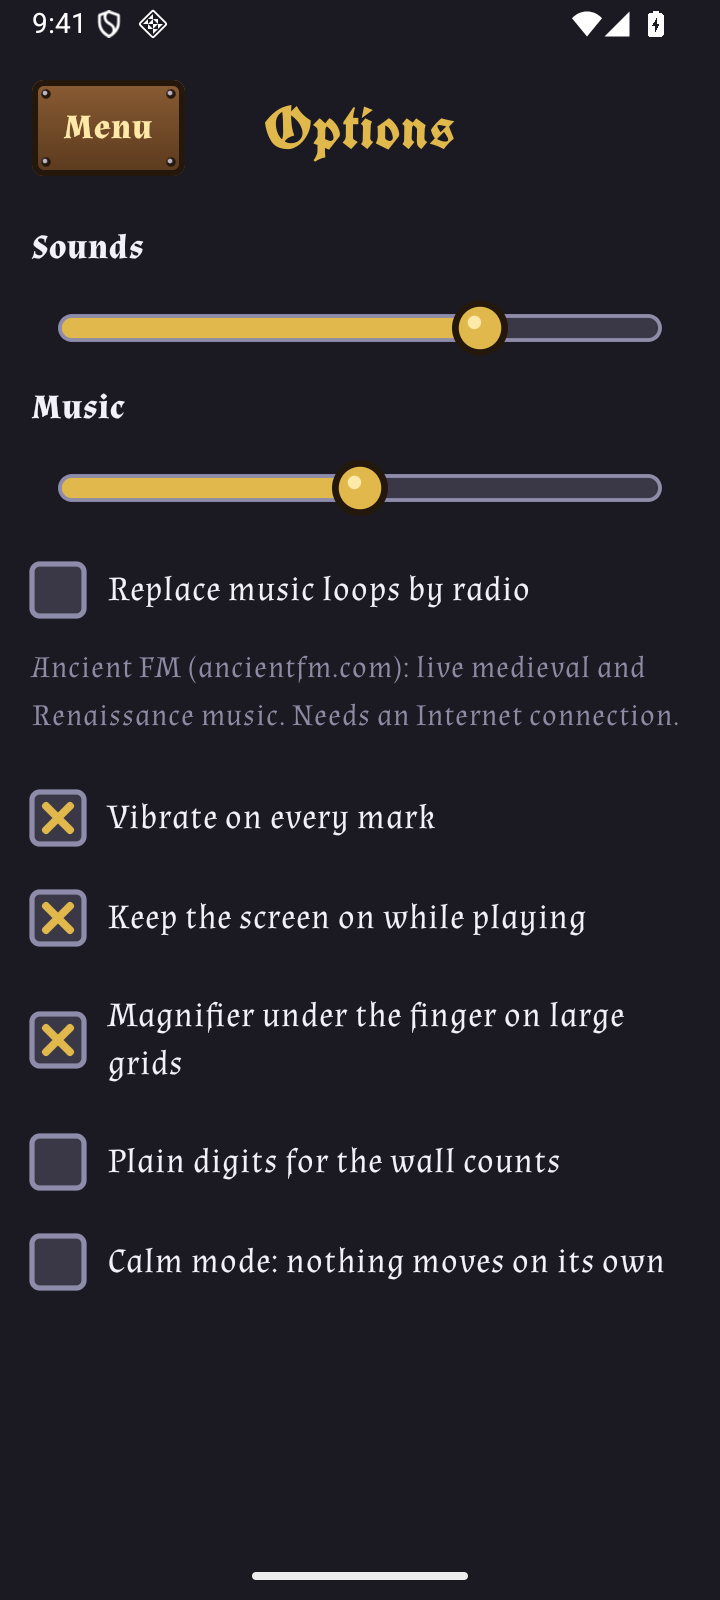
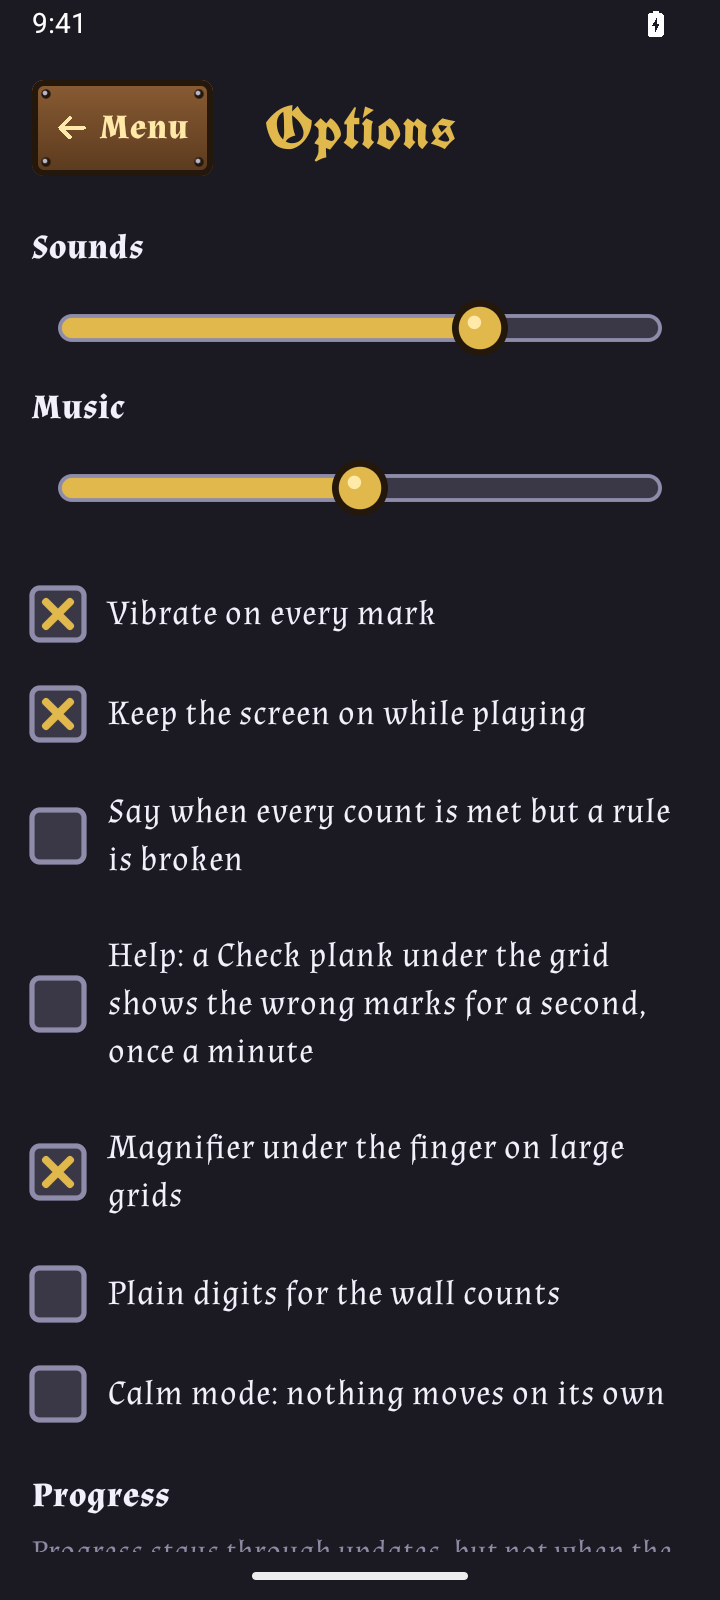
Version 0.6.3: no more radio, no Internet permission
- The option replacing the music loops with the Ancient FM stream is gone:
  the station is free of charge and of adverts, but it is not free software
  or free content.
- The app no longer asks for the Internet permission; the bundled loops are
  the only music.
- Options screenshot retaken.

diff --git a/app/src/main/kotlin/app/oubliettes/Audio.kt b/app/src/main/kotlin/app/oubliettes/Audio.kt
@@ -10,21 +10,18 @@ import android.media.AudioTrack
 import android.media.MediaCodec
 import android.media.MediaExtractor
 import android.media.MediaFormat
-import android.media.MediaPlayer
 import android.media.SoundPool
 import android.os.Handler
 import android.os.Looper
 import androidx.compose.runtime.getValue
 import androidx.compose.runtime.mutableFloatStateOf
-import androidx.compose.runtime.mutableStateOf
 import androidx.compose.runtime.setValue
 import java.util.concurrent.ConcurrentHashMap
 import kotlin.concurrent.thread
 import kotlin.math.roundToInt
 
-private const val RADIO_URL = "https://mediaserv73.live-streams.nl:18058/stream" // Ancient FM, ancientfm.com
 
-private enum class Source { NONE, MENU, LOOP, RADIO }
+private enum class Source { NONE, MENU, LOOP }
 
 /** A decoded sound: [size] bytes of 16-bit samples. */
 private class Pcm(val bytes: ByteArray, val size: Int, val rate: Int, val channels: Int)
@@ -127,16 +124,13 @@ private class Loop(context: Context, resource: Int, attributes: AudioAttributes,
 }
 
 /**
- * Sound effects plus background music: the bundled loops (a calmer one for the menus), or the Ancient FM stream when asked.
+ * Sound effects plus background music: the bundled loops (a calmer one for the menus).
  * The music holds the audio focus while it plays. It stays silent when another app is already
  * playing, stops when another app takes the focus, and comes back when the focus does.
  */
 class Audio(private val context: Context, private val prefs: SharedPreferences) {
     var soundVolume by mutableFloatStateOf(prefs.getFloat("soundVolume", 0.7f))
     var musicVolume by mutableFloatStateOf(prefs.getFloat("musicVolume", 0.5f))
-    var radio by mutableStateOf(prefs.getBoolean("radio", false))
-    var radioFailed by mutableStateOf(false)
-        private set
 
     private val attributes = AudioAttributes.Builder()
         .setUsage(AudioAttributes.USAGE_GAME)
@@ -146,7 +140,6 @@ class Audio(private val context: Context, private val prefs: SharedPreferences) 
     val click = pool.load(context, R.raw.sfx_click, 1)
     private val victory = pool.load(context, R.raw.sfx_victory, 1)
 
-    private var player: MediaPlayer? = null // the radio
     private var loop: Loop? = null // a bundled loop
     private val decoded = ConcurrentHashMap<Int, Pcm>()
     private var source = Source.NONE
@@ -194,17 +187,14 @@ class Audio(private val context: Context, private val prefs: SharedPreferences) 
     }
 
     /** Persists the settings and applies them to the music. Call after changing any of them. */
-    fun save(retryRadio: Boolean = false) {
-        prefs.edit().putFloat("soundVolume", soundVolume).putFloat("musicVolume", musicVolume)
-            .putBoolean("radio", radio).apply()
-        if (retryRadio) radioFailed = false
+    fun save() {
+        prefs.edit().putFloat("soundVolume", soundVolume).putFloat("musicVolume", musicVolume).apply()
         sync()
     }
 
     /** Music only plays while the app is on screen. */
     fun setForeground(value: Boolean) {
         foreground = value
-        if (value) radioFailed = false // the network may be back
         sync()
     }
 
@@ -217,7 +207,6 @@ class Audio(private val context: Context, private val prefs: SharedPreferences) 
     fun release() {
         handler.removeCallbacksAndMessages(null)
         manager.abandonAudioFocusRequest(focusRequest)
-        player?.release()
         loop?.stop()
         pool.release()
     }
@@ -234,42 +223,19 @@ class Audio(private val context: Context, private val prefs: SharedPreferences) 
         }
         val want = when {
             !wanted || !focused || paused -> Source.NONE
-            radio && !radioFailed -> Source.RADIO
             menu -> Source.MENU
             else -> Source.LOOP
         }
         if (want != source) {
-            player?.release()
             loop?.stop()
             source = want
             loop = when (want) {
                 Source.MENU -> Loop(context, R.raw.menu, attributes, decoded)
                 Source.LOOP -> Loop(context, R.raw.music, attributes, decoded)
-                else -> null
-            }
-            player = when (want) {
-                Source.NONE, Source.MENU, Source.LOOP -> null
-                Source.RADIO -> MediaPlayer().apply {
-                    setAudioAttributes(attributes)
-                    setDataSource(RADIO_URL)
-                    var connected = false
-                    setOnPreparedListener { connected = true; it.start() }
-                    // A live stream only ends or errors when the connection is lost: fall back to the loop.
-                    setOnCompletionListener { radioLost() }
-                    setOnErrorListener { _, _, _ -> radioLost(); true }
-                    prepareAsync()
-                    // Offline, the connection attempt can hang for minutes: give up well before that.
-                    handler.postDelayed({ if (player === this && !connected) radioLost() }, 15_000)
-                }
+                Source.NONE -> null
             }
         }
         val v = if (hushed) 0f else musicVolume * musicVolume
-        player?.setVolume(v, v)
         loop?.volume = v
-    }
-
-    private fun radioLost() {
-        radioFailed = true
-        sync()
     }
 }

diff --git a/app/src/main/kotlin/app/oubliettes/MainActivity.kt b/app/src/main/kotlin/app/oubliettes/MainActivity.kt
@@ -996,13 +996,6 @@ private fun Options(prefs: SharedPreferences, audio: Audio, onMenu: () -> Unit) 
             IronSlider("Sounds", audio.soundVolume, { audio.soundVolume = it; audio.save() }, onValueChangeFinished = { audio.play(audio.click) })
             Text("Music", Modifier.clearAndSetSemantics {}, color = Ink, fontWeight = FontWeight.Bold)
             IronSlider("Music", audio.musicVolume, { audio.musicVolume = it; audio.save() })
-            Toggle("Replace music loops by radio", audio.radio) { audio.radio = it; audio.save(retryRadio = true) }
-            Text(
-                "Ancient FM (ancientfm.com): live medieval and Renaissance music. " +
-                    "Needs an Internet connection.",
-                color = Dim, fontSize = 15.sp,
-            )
-            if (audio.radioFailed) Text("Radio unavailable: back to the music loops.", color = Red, fontSize = 15.sp)
             Spacer(Modifier.height(8.dp))
             PrefToggle(prefs, "haptics", "Vibrate on every mark")
             PrefToggle(prefs, "keepScreenOn", "Keep the screen on while playing")

diff --git a/README.md b/README.md
@@ -7,7 +7,7 @@ A logic puzzle game for Android: work out where the dungeon walls are from the c
   <img src="metadata/en-US/images/phoneScreenshots/2-game.png" width="190" alt="An 8×8 grid in progress: walls, dots, monsters, a chest, the wall counts, and the Undo, Redo and Reset planks" />
   <img src="metadata/en-US/images/phoneScreenshots/3-solved.png" width="190" alt="A solved grid, all counts green and underlined, with Play again and Next level" />
   <img src="metadata/en-US/images/phoneScreenshots/4-tutorial.png" width="190" alt="Tutorial step about monsters and dead ends, with two cells left for the player to mark" />
-  <img src="metadata/en-US/images/phoneScreenshots/5-options.png" width="190" alt="Options: sound and music sliders, radio, vibration, screen, magnifier, plain digits and calm mode" />
+  <img src="metadata/en-US/images/phoneScreenshots/5-options.png" width="190" alt="Options: sound and music sliders, vibration, screen, magnifier, plain digits and calm mode" />
   <img src="metadata/en-US/images/phoneScreenshots/6-levels.png" width="190" alt="Campaign: the table of levels, the solved one showing its dungeon, the next one marked as begun" />
 </p>
 
@@ -95,8 +95,7 @@ screens, large fonts), and calm mode stops all motion.
 Options has volume sliders for sound effects and music. The music holds the audio focus while it
 plays: it stays silent when another app is already playing (your own music or a podcast keeps
 going), stops when another app starts, and comes back afterwards. The music is a bundled 80-second medieval loop, with
-a shorter and calmer 24-second one for the menus, both played from memory so that they loop without a gap; a checkbox replaces them with the live stream of [Ancient FM](https://ancientfm.com/) (medieval and
-Renaissance music, needs an Internet connection — the only thing the app uses the network for).
+a shorter and calmer 24-second one for the menus, both played from memory so that they loop without a gap. The app never uses the network.
 
 The loops and the sound effects are synthesised by `tools/make_audio.py` (needs numpy and ffmpeg).
 

diff --git a/CHANGELOG.md b/CHANGELOG.md
@@ -1,5 +1,15 @@
 # Changelog
 
+## 0.6.3
+
+Saves, solved levels and settings of 0.6.2 are kept.
+
+### Removed
+
+- The radio option: Ancient FM is free of charge and of adverts, but it is not free software or
+  free content. The bundled loops are the only music, and the app no longer asks for the Internet
+  permission.
+
 ## 0.6.2
 
 Saves, solved levels and settings of 0.6.1 are kept.
